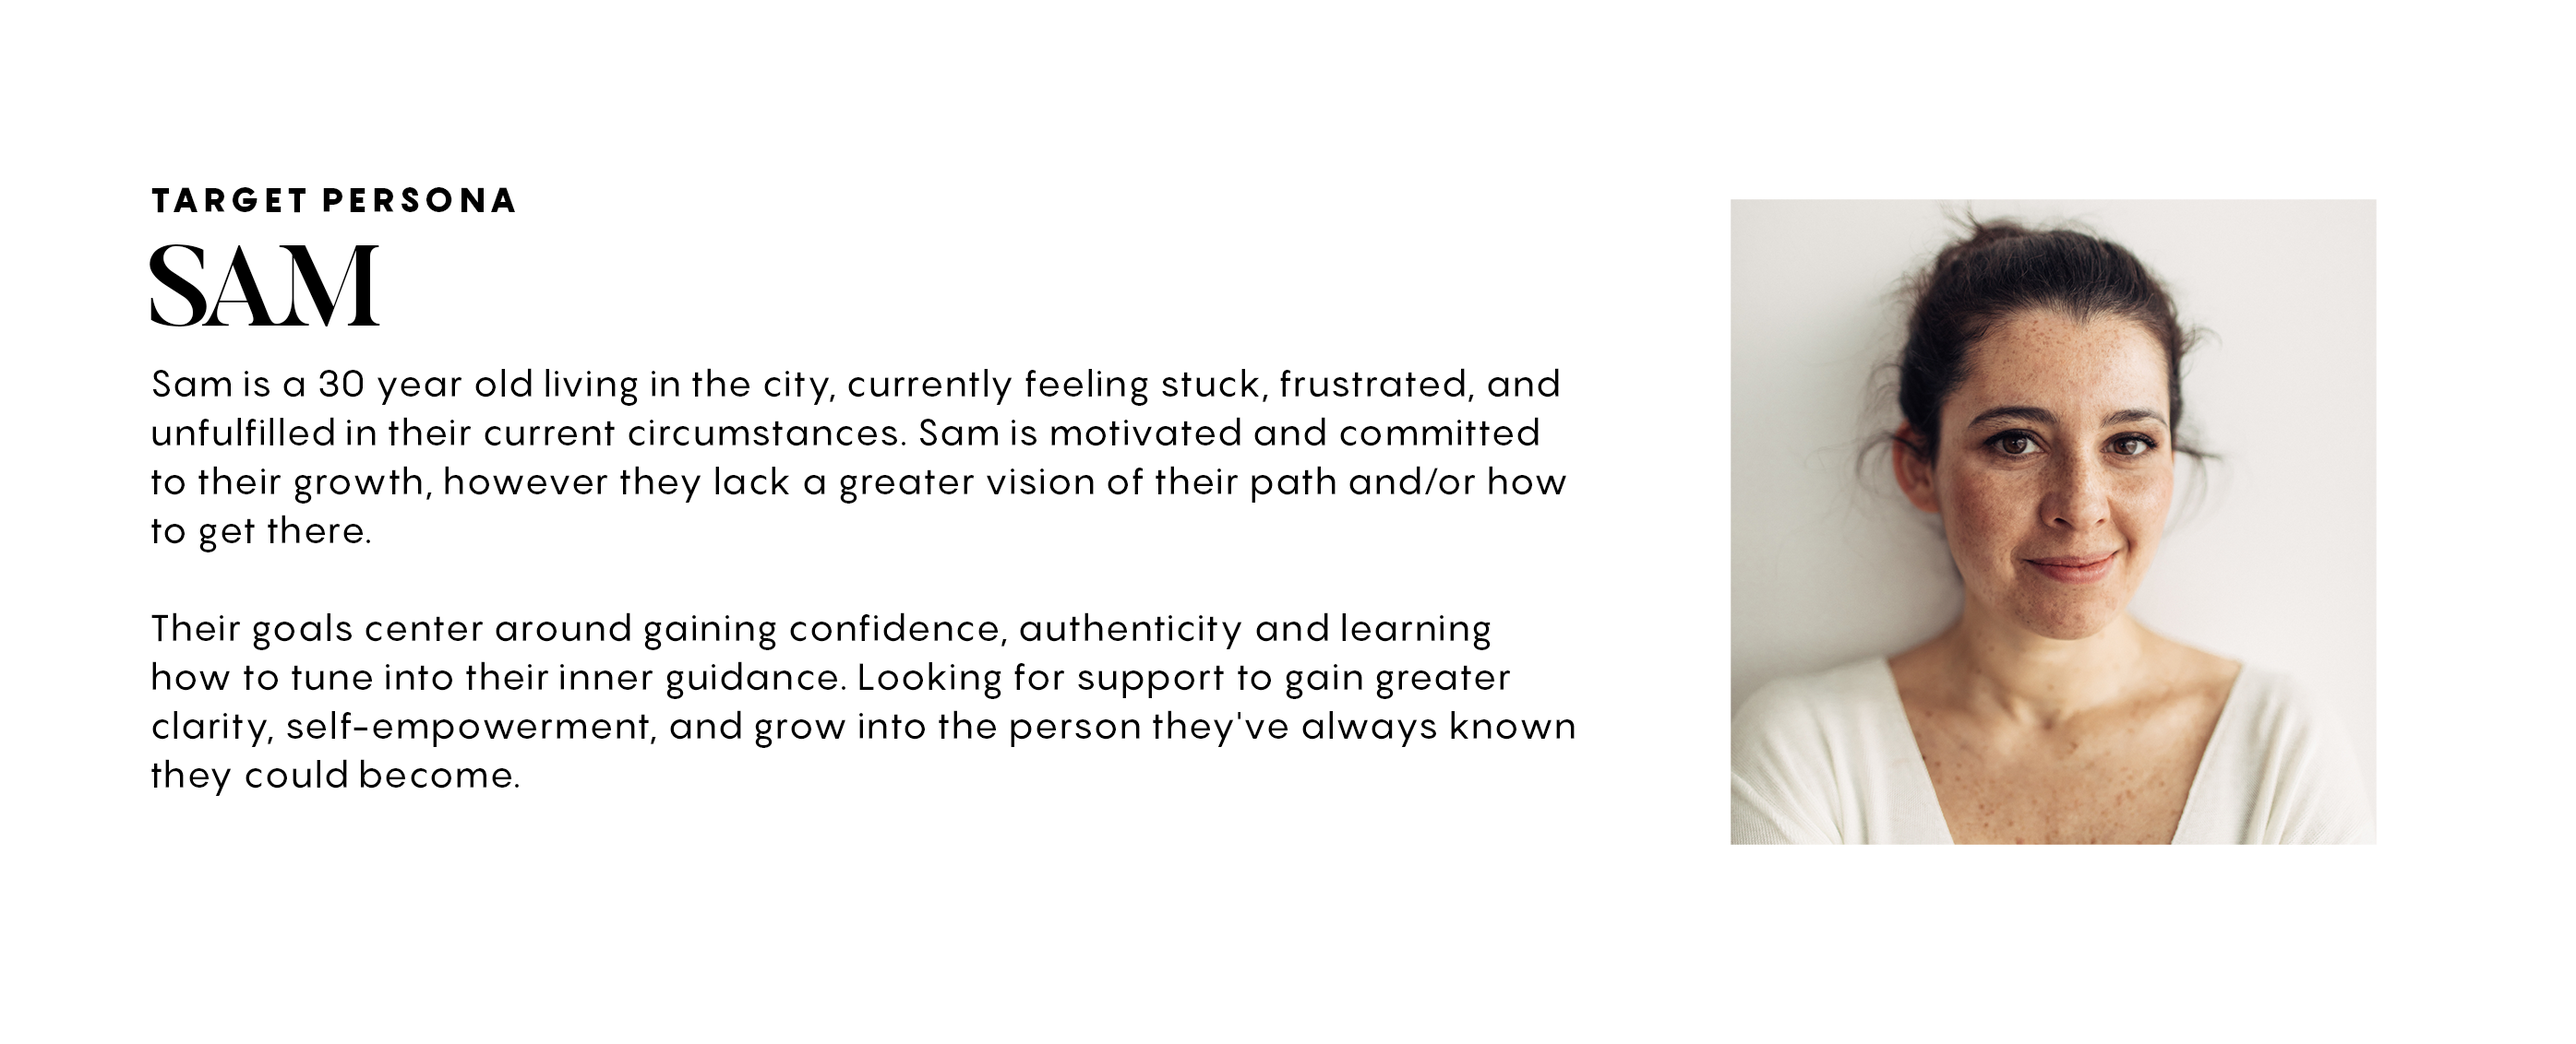
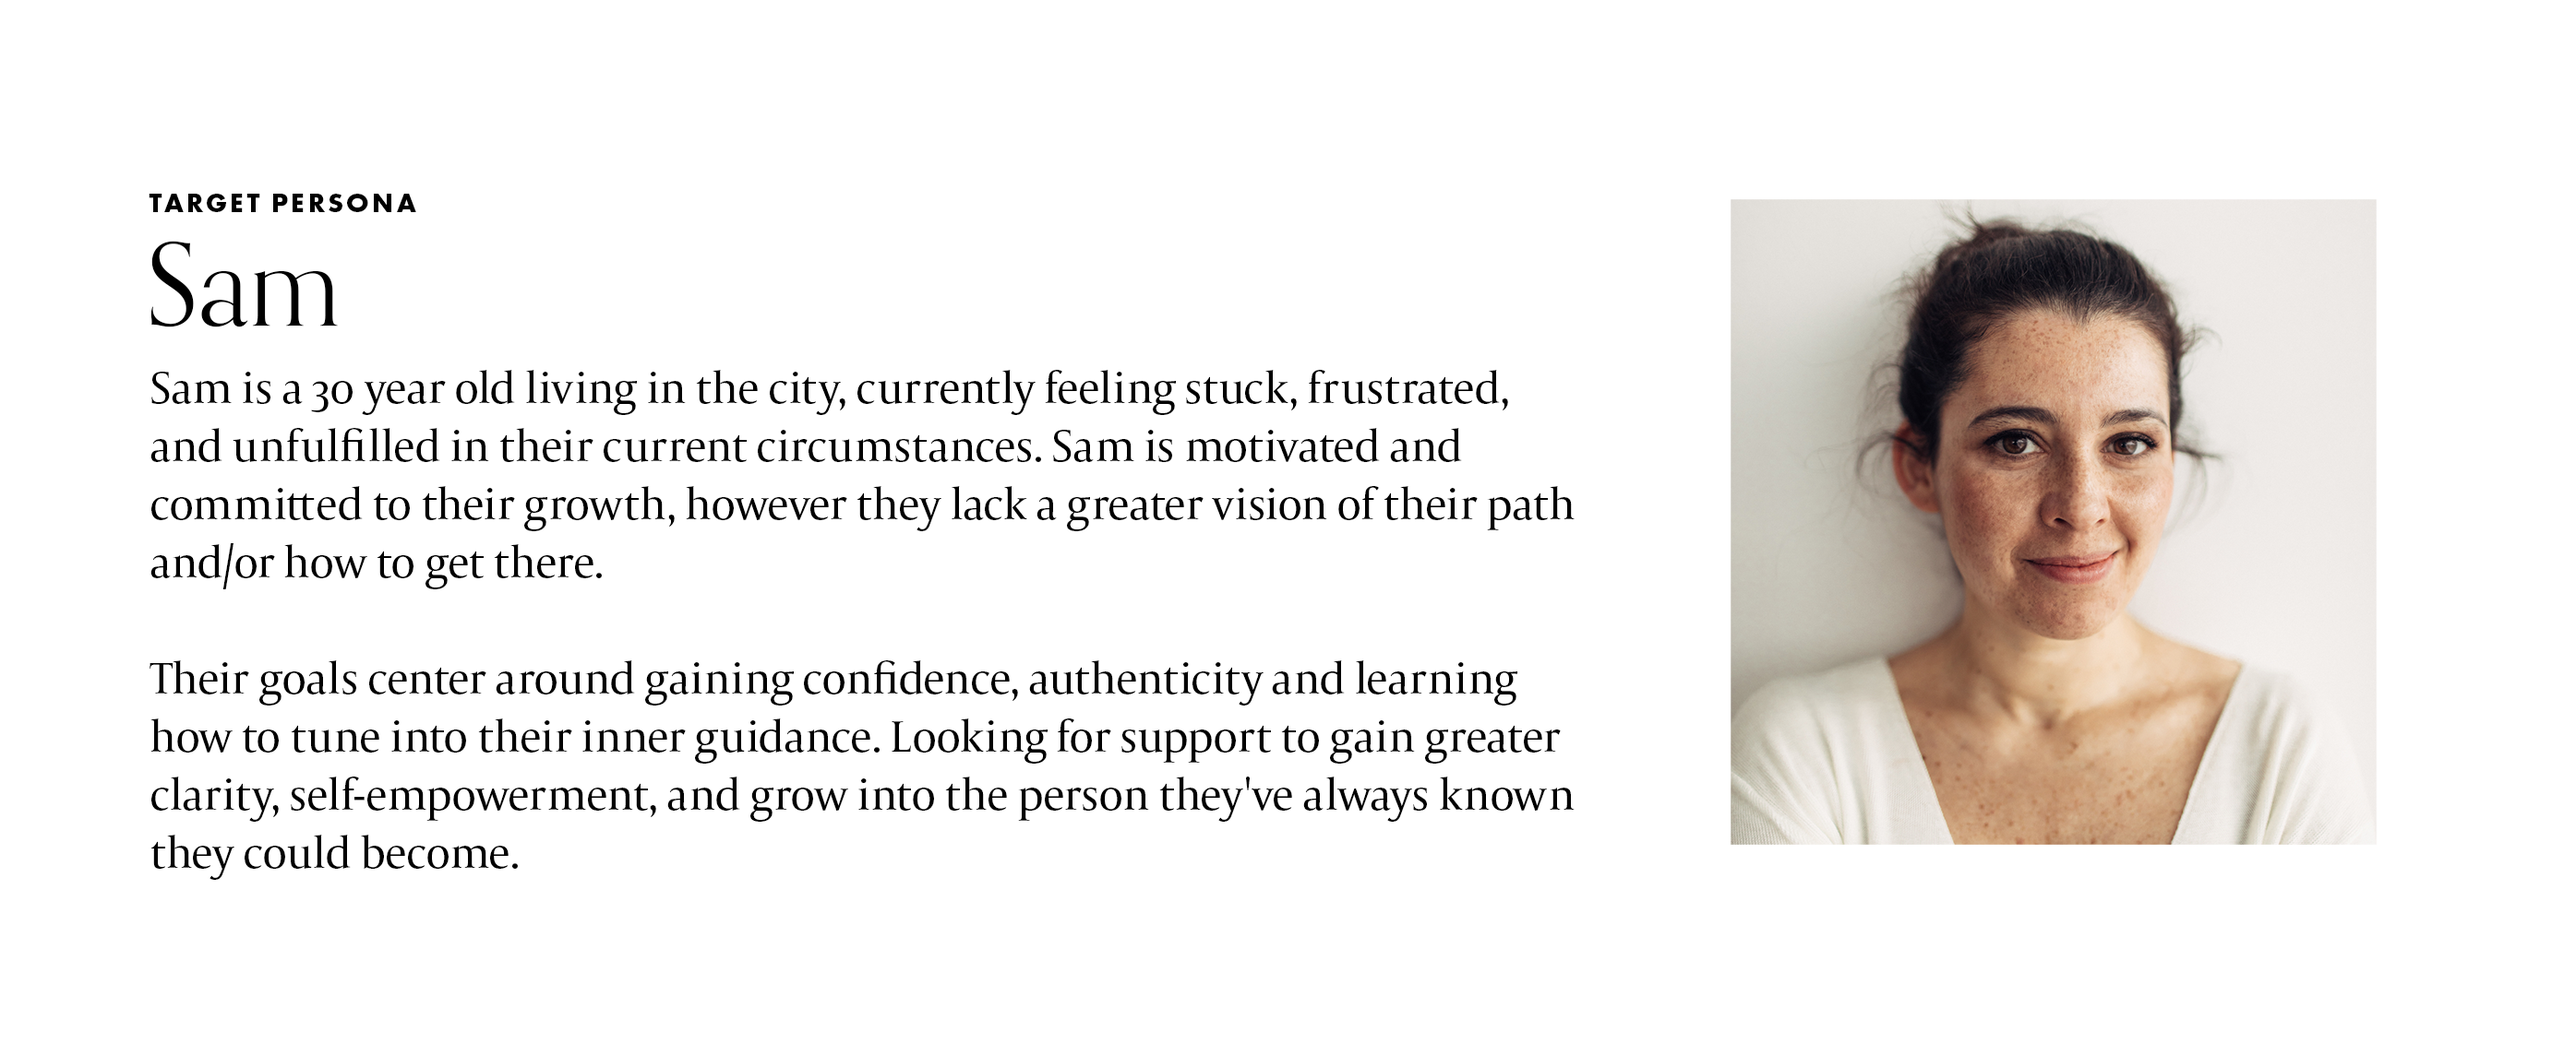
version two of final designs added

diff --git a/src/pages/FinalTwo.js b/src/pages/FinalTwo.js
@@ -1,0 +1,36 @@
+import React from 'react';
+
+import vision from '../images/concepts/final-two/moodboard.png';
+import colour from '../images/concepts/final-two/colours.png';
+import typeOne from '../images/concepts/final-two/typography.png';
+import typeTwo from '../images/concepts/final-two/typography-two.png';
+import logo from '../images/concepts/final-two/logo-squares.png';
+import insta from '../images/concepts/final-two/insta-cards.png';
+import instaTwo from '../images/concepts/final-two/insta-cards-two.png';
+import imagery from '../images/concepts/final-two/imagery.png';
+import cards from '../images/concepts/final-two/biz-cards.png';
+import cardsTwo from '../images/concepts/final-two/biz-cards-two.png';
+
+
+function FinalTwo() {
+  return (
+    <div className="concept-one">
+      <h3>Final Designs - Version 2</h3>
+      <p>I'm so happy you like the colours and tiles, those are approved so let's discuss what needs approval;</p>
+      <p>For the Secondary Font I went through a bunch of fonts and landed on Futura. I love Futura, it's a geometric sans-serif typeface that was revolutionary when it was designed (and it still is!) It's classic and forever and you can never go wrong with Futura. Fun fact, Futura was the font used on my very first website back in the day (:</p>
+      <p>For this biz cards I put in the info I mentioned to you earlier and you just need to decide if you want to go the colourful or gold edged route (: Also, notice there are two different backs so decide which you like, we are almost there!</p>
+      <img src={vision} alt="vision board" />
+      <img src={colour} alt="colour" />
+      <img src={typeOne} alt="brand typography" />
+      <img src={typeTwo} alt="typography usage" />
+      <img src={logo} alt="logo exploration" />
+      <img src={insta} alt="insta cards with logo and events" />
+      <img src={instaTwo} alt="insta cards with logo and events" />
+      <img src={imagery} alt="insta imagery usage" />
+      <img src={cards} alt="business cards example" />
+      <img src={cardsTwo} alt="business cards example" />
+    </div>
+  );
+}
+
+export default FinalTwo;

diff --git a/src/pages/Concepts.js b/src/pages/Concepts.js
@@ -2,10 +2,8 @@ import React from 'react';
 import { BrowserRouter as Router, Route, Link, Switch } from "react-router-dom";
 
 import Values from './Values.js'
-import ConceptOne from './ConceptOne.js'
-import ConceptTwo from './ConceptTwo.js'
-import ConceptThree from './ConceptThree.js'
 import Final from './Final.js'
+import FinalTwo from './FinalTwo.js'
 
 import logo from '../images/logo.png';
 
@@ -19,10 +17,8 @@ function Concepts() {
             <img src={logo} alt="" className="logo" />
             <div className="concept-link-wrap">
               <Link to="/concepts/values" className="concept-links">Values</Link>
-              <Link to="/concepts/concept-one" className="concept-links">Concept One</Link>
-              <Link to="/concepts/concept-two" className="concept-links">Concept Two</Link>
-              <Link to="/concepts/concept-three" className="concept-links">Concept Three</Link>
               <Link to="/concepts/final" className="concept-links">Final</Link>
+              <Link to="/concepts/final-two" className="concept-links">Final Two</Link>
             </div>
           </div>
         </header>
@@ -37,10 +33,8 @@ function Concepts() {
           </div>
           <Switch>
             <Route path="/concepts/values" exact component={Values} />
-            <Route path="/concepts/concept-one" component={ConceptOne} />
-            <Route path="/concepts/concept-two" component={ConceptTwo} />
-            <Route path="/concepts/concept-three" component={ConceptThree} />
             <Route path="/concepts/final" component={Final} />
+            <Route path="/concepts/final-two" component={FinalTwo} />
           </Switch>
         </div>
       </main>

diff --git a/src/styles/_concepts.scss b/src/styles/_concepts.scss
@@ -8,7 +8,7 @@
     margin: 40px 0 -10px 0;
     // letter-spacing: .75px;
     font-weight: 600;
-    font-size: 1.5rem;;
+    font-size: 1.5rem;
   }
   
   p {
@@ -24,11 +24,11 @@
     justify-content: center;
     p {
       font-family: $secondaryFont;
-      font-weight: 600;
+      font-weight: 700;
       text-transform: uppercase;
       margin: 30px 10px 0 10px;
       font-size: 0.8rem;
-      letter-spacing: 1px;
+      letter-spacing: 2px;
     }
   }
   img {

diff --git a/src/styles/_variables.scss b/src/styles/_variables.scss
@@ -12,6 +12,8 @@ $pearl: #ebece7;
 $echoBlue: #a1b6cf;
 $gold: #d5c39d;
 
+$black: #222;
+$white: #fff;
 
 
 
@@ -24,8 +26,7 @@ $sapphire: #3983B3;
 $honey: #DCB034;
 $chiffon: #E6DCDD;
 
-$black: #222;
-$white: #fff;
+
 
 
 
@@ -34,5 +35,5 @@ $white: #fff;
 
 
 $mainFont: orpheuspro, serif;
-$secondaryFont: commuters-sans, sans-serif;
+$secondaryFont: futura-pt, sans-serif;
 $bodyFont: capitolium-2, serif;

diff --git a/src/pages/Final.js b/src/pages/Final.js
@@ -12,7 +12,7 @@ import cards from '../images/concepts/final/biz-cards.png';
 import cardsTwo from '../images/concepts/final/biz-cards-two.png';
 
 
-function ConceptOne() {
+function Final() {
   return (
     <div className="concept-one">
       <h3>Final Designs</h3>
@@ -34,4 +34,4 @@ function ConceptOne() {
   );
 }
 
-export default ConceptOne;
+export default Final;

diff --git a/src/styles/_header.scss b/src/styles/_header.scss
@@ -32,8 +32,8 @@ header {
       font-family: $secondaryFont;
       text-transform: uppercase;
       margin-right: 15px;
-      letter-spacing: 1px;
-      font-size: 11px;
+      letter-spacing: 2px;
+      font-size: 14px;
       font-weight: 600;
 
       &:hover, &:active {

diff --git a/src/styles/main.scss b/src/styles/main.scss
@@ -28,10 +28,11 @@ h2, h3, h4, h5, h6 {
 }
 
 h2 {
-  font-size: 1.1rem;
+  font-size: 1.3rem;
+  letter-spacing: 0.5px;
   font-family: $secondaryFont;
   font-weight: 300;
-    max-width: 800px;
+  max-width: 790px;
   margin: 0 auto;
   text-align: center;
 }
